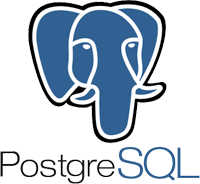
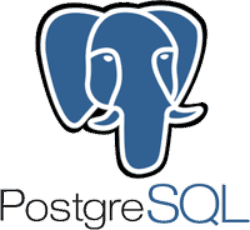
imagen webp y menu mejorado

diff --git a/src/Portafolio.jsx b/src/Portafolio.jsx
@@ -1,25 +1,25 @@
-import image from "../src/images/per.png";
+import image from "../src/images/per.webp";
 import im2 from "../src/images/plo2.jpg";
-import im1 from "../src/images/plo1.png";
-import im3 from "../src/images/plo3.png";
+import im1 from "../src/images/plo1.webp";
+import im3 from "../src/images/plo3.webp";
 import reactimage from "../src/images/react.png";
 import postgres from "../src/images/postgres.png";
 import redux from "../src/images/redux.png";
-import tailwind from "../src/images/tailwind.png";
-import js from "../src/images/javascript.png";
-import html from "../src/images/html.png";
+import tailwind from "../src/images/tailwind.webp";
+import js from "../src/images/javascript.webp";
+import html from "../src/images/html.webp";
 import node from "../src/images/node.png";
 import express from "../src/images/express-js.png";
-import pf1 from "../src/images/sectionProjects/pf2.png";
-import pf2 from "../src/images/sectionProjects/pf3.png";
-import pf3 from "../src/images/sectionProjects/pf5.jpeg";
-import pi1 from "../src/images/sectionProjects/portafolio_pi_1.png";
-import pi2 from "../src/images/sectionProjects/portafolio_pi_2.png";
-import pi3 from "../src/images/sectionProjects/portafolio_pi_3.png";
-import github from "../src/images/Github-logo.png";
-import linkedin from "../src/images/logo-linkedin.png";
+import pf1 from "../src/images/sectionProjects/pf2.webp";
+import pf2 from "../src/images/sectionProjects/pf3.webp";
+import pf3 from "../src/images/sectionProjects/pf5.webp";
+import pi1 from "../src/images/sectionProjects/portafolio_pi_1.webp";
+import pi2 from "../src/images/sectionProjects/portafolio_pi_2.webp";
+import pi3 from "../src/images/sectionProjects/portafolio_pi_3.webp";
+import github from "../src/images/github.png";
+import linkedin from "../src/images/logo-linkedin.webp";
 import emailjs from "emailjs-com";
-import css from "../src/images/css.png";
+import css from "../src/images/css.webp";
 import "./App.css";
 import { HashLink } from "react-router-hash-link";
 import { Route, Router } from "react-router-dom";
@@ -27,15 +27,14 @@ import { Link } from "react-router-dom";
 import { NavLink } from "react-router-dom";
 import swal from "sweetalert";
 import Carousel from "./Carousel";
-import { CarouselData } from "./CarouselData";
 import Modal from "./Modal";
 export default function Portafolio() {
   const estilos = {
-    h1: "font-extrabold text-transparent  bg-clip-text bg-gradient-to-r from-neutral-300 to-neutral-400 text-xl  font-bold text-slate-200 flex h-full flex-col   transition transform  text-center border-b-4 border-sky-500  mx-2 rounded-2xl hover:-translate-y-2 motion-reduce:transition-none motion-reduce:hover:transform-none  cursor-pointer py-2  tracking-widest tracking-wider shadow-lg shadow-blue-700 hover:shadow-sm ",
+    h1: "font-extrabold text-transparent  bg-clip-text bg-gradient-to-r from-neutral-300 to-neutral-400 text-sm  font-bold text-slate-200 flex h-full flex-col   transition transform  text-center border-b-2 sm:border-b-4 border-sky-500  mx-2 rounded-2xl hover:-translate-y-2 motion-reduce:transition-none motion-reduce:hover:transform-none  cursor-pointer py-2  tracking-widest tracking-wider shadow-lg shadow-blue-700 hover:shadow-sm sm:text-lg md:text-xl",
     h1NE: "text-3xl  font-bold text-slate-200 flex h-full flex-col transition transform  text-center border-y-4 border-sky-500  mx-8 rounded-2xl py-4 my-20",
     h1_down:
-      " shadow-2xl shadow-blue-700 text-3xl text-transparent font-extrabold bg-clip-text bg-gradient-to-r from-neutral-300 to-neutral-400 flex h-full flex-col transition transform  text-center border-x-4 border-sky-500  mx-8 rounded-2xl py-4 mt-32 my-20 ",
-    linkGrande: "text-3xl text-center font-extrabold text-slate-300  ",
+      " shadow-2xl shadow-blue-700 text-2xl text-transparent font-extrabold bg-clip-text bg-gradient-to-r from-neutral-300 to-neutral-400 flex h-full flex-col transition transform  text-center border-x-4 border-sky-500  mx-8 rounded-2xl py-4 mt-32 my-20 ",
+    linkGrande: "text-2xl text-center font-extrabold text-slate-300  ",
     info: " text-xl text-slate-400 border-b-4 border-blue-800 rounded-md sm:text-2xl ml-3 text-transparent font-extrabold shadow-xl hover:shadow-blue-700",
 
     h8: "text-4xl  font-extrabold text-slate-200 sm:text-7xl flex-col ",
@@ -68,24 +67,29 @@ export default function Portafolio() {
         }).then(e.target.reset());
       });
   };
-  const esconder=e=>{
+  const esconder = (e) => {
     e.preventDefault();
     let elemento = document.getElementById("panelizquierdo");
-    if(elemento.style.display==="none"){elemento.style.display="flex"}else{
-      elemento.style.display="none"
+    if (elemento.style.display === "none") {
+      elemento.style.display = "flex";
+    } else {
+      elemento.style.display = "none";
     }
-    console.log(elemento.style)
-    console.log(elemento.style.width)
-  }
+    console.log(elemento.style);
+    console.log(elemento.style.width);
+  };
   return (
-    <div className=" flex  p-0 m-0 bg-gradient-to-r  from-zinc-900  justify-center to-black     ">
-      
+    <div className=" flex flex-col md:flex-row content-center   p-0 m-0 bg-gradient-to-r  from-zinc-900  justify-center items-center md:items-start to-black     ">
       <section
         id="panel izquierdo"
-        className=" sticky top-0 flex  h-full w-max"
-      ><h2  style={{display:"initial", zIndex:"500" , position:"absolute",  cursor:"pointer"}} onClick={e=>esconder(e)} className=" opacity-70 text-slate-400 font-bold text-xl mb-1.5 hover:text-blue-800">⬅Panel➡</h2>
-        <section id="panelizquierdo" className="sticky top-0   justify-evenly  flex  w-max  h-screen    flex-col  border-t-8 border-b-8 border-sky-500 rounded-md shadow-2xl shadow-blue-700 ">
-          
+        className=" sticky top-0 flex md:sticky h-full w-max z-50 opacity-100 bg-gradient-to-r  from-zinc-900   to-black "
+      >
+        {/* <h2  style={{display:"initial", zIndex:"500" , position:"absolute",  cursor:"pointer"}} onClick={e=>esconder(e)} className=" opacity-70 text-slate-400 font-bold text-xl mb-1.5 hover:text-blue-800">⬅Panel➡</h2>
+         */}{" "}
+        <section
+          id="panelizquierdo"
+          className="  z-40  justify-evenly flex-wrap flex  w-screen opacity-100 py-4 md:w-auto   md:h-screen md:flex-col    border-b-4  md:border-t-8 md:border-b-8 border-sky-500 rounded-md shadow-2xl shadow-blue-700 "
+        >
           <div>
             <HashLink to="#about">
               <h1 className={estilos.h1}>🕵About</h1>
@@ -106,8 +110,8 @@ export default function Portafolio() {
               <h1 className={estilos.h1}>📞Contact</h1>
             </HashLink>
           </div>
-          <div className="flex flex-col text-center">
-            <div className="flex flex-row content-center justify-center">
+          <div className="flex flex-col absolute right-5 top-20 sm:relative sm:right-0 sm:top-0">
+            <div className="flex flex-row content-center justify-center items-center gap-4 ">
               <a
                 className={estilos.linkGrande}
                 href="https://github.com/maicolortz"
@@ -115,7 +119,7 @@ export default function Portafolio() {
                 rel="noopener"
               >
                 <img
-                  className="w-12 hover:-translate-y-1 motion-reduce:transition-none cursor-pointer "
+                  className="w-8 sm:w-10 hover:-translate-y-1 motion-reduce:transition-none cursor-pointer rounded-full "
                   src={github}
                 ></img>
               </a>
@@ -126,10 +130,11 @@ export default function Portafolio() {
                 rel="noopener"
               >
                 <img
-                  className="w-12 hover:-translate-y-1 motion-reduce:transition-none cursor-pointer"
+                  className="w-8 sm:w-10 hover:-translate-y-1 motion-reduce:transition-none cursor-pointer"
                   src={linkedin}
                 ></img>
               </a>
+           
             </div>
           </div>
         </section>
@@ -274,16 +279,44 @@ export default function Portafolio() {
         </div>
         <section id="skills" className="flex flex-col">
           <h2 className={estilos.h1_down}>skills</h2>
-          <div className="flex  flex-wrap  content-center justify-around ">
-            <img className=" h-20 sm:h-32 rounded-lg" src={reactimage}></img>
-            <img className="h-20 sm:h-32 rounded-lg" src={express}></img>
-            <img className="h-20 sm:h-32 rounded-lg" src={html}></img>
-            <img className="h-20 sm:h-32 rounded-lg" src={redux}></img>
-            <img className="h-20 sm:h-32 rounded-lg" src={css}></img>
-            <img className="h-20 sm:h-32 rounded-lg" src={js}></img>
-            <img className="h-20 sm:h-32 rounded-lg" src={tailwind}></img>
-            <img className="h-20 sm:h-32 rounded-lg" src={postgres}></img>
-            <img className="h-20 sm:h-32 rounded-lg" src={node}></img>
+          <div className="flex  flex-wrap  content-center justify-around gap-8 sm:gap-16">
+            <img
+              className=" h-20 sm:h-32 rounded-lg animate-bounce2"
+              src={reactimage}
+            ></img>
+
+            <img
+              className="h-24 sm:h-28 md:h-32 rounded-lg animate-bounce3  "
+              src={express}
+            ></img>
+            <img
+              className="h-24 sm:h-28 md:h-32 rounded-lg animate-bounce2 "
+              src={html}
+            ></img>
+            <img
+              className="h-24 sm:h-28 md:h-32 rounded-lg animate-bounce3 "
+              src={redux}
+            ></img>
+            <img
+              className="h-24 sm:h-28 md:h-32 rounded-lg animate-bounce2"
+              src={css}
+            ></img>
+            <img
+              className="h-24 sm:h-28 md:h-32 rounded-lg animate-bounce3"
+              src={js}
+            ></img>
+            <img
+              className="h-24 sm:h-28 md:h-32 rounded-lg animate-bounce2"
+              src={tailwind}
+            ></img>
+            <img
+              className="h-24 sm:h-28 md:h-32 rounded-lg animate-bounce2"
+              src={postgres}
+            ></img>
+            <img
+              className="h-24 sm:h-28 md:h-32 rounded-lg animate-bounce3"
+              src={node}
+            ></img>
           </div>
         </section>
         <section id="projects">
@@ -364,23 +397,30 @@ export default function Portafolio() {
             <div>
               <h2 className={estilos.linkGrande}>Pi_Dogs</h2>
               <div className="flex justify-center content-center">
-                <Modal estilos={estilos} titulo_boton="info" titulo_mensaje="Pi-Dogs" mensaje={<p className={estilos.p_2}>
-                Estuve desarrollando una single Page de perros, que incluye
-                caracteristicas como
-                <br />
-                🩸Busqueda de perro
-                <br />
-                🩸Publicar un perro
-                <br />
-                🩸ordenar perros por tamaño,
-                <br />
-                🩸ordenar razas por alfabeto
-                <br />
-                🩸filtrar por temperamento
-                <br />
-                🩸creacion de perro
-                <br />
-              </p>}></Modal>
+                <Modal
+                  estilos={estilos}
+                  titulo_boton="info"
+                  titulo_mensaje="Pi-Dogs"
+                  mensaje={
+                    <p className={estilos.p_2}>
+                      Estuve desarrollando una single Page de perros, que
+                      incluye caracteristicas como
+                      <br />
+                      🩸Busqueda de perro
+                      <br />
+                      🩸Publicar un perro
+                      <br />
+                      🩸ordenar perros por tamaño,
+                      <br />
+                      🩸ordenar razas por alfabeto
+                      <br />
+                      🩸filtrar por temperamento
+                      <br />
+                      🩸creacion de perro
+                      <br />
+                    </p>
+                  }
+                ></Modal>
                 <a
                   className={estilos.linkGrande}
                   href="https://pi-dogs-peach.vercel.app/"
@@ -393,8 +433,6 @@ export default function Portafolio() {
                   </button>{" "}
                 </a>
               </div>
-
-              
             </div>
             <div className="flex content-center justify-center">
               <Carousel
@@ -428,10 +466,10 @@ export default function Portafolio() {
         </section>
         <section id="contact">
           <h2 className={estilos.h1_down}>contact</h2>
-          <div className="flex  py-8  content-center justify-center w-max-96 ">
+          <div className="flex  py-6   items-center  content-center justify-center  flex-col">
             <form
               onSubmit={enviaremail}
-              className="border-double border-4 border-sky-500 p-4 rounded-xl"
+              className="border-double border-4 border-sky-500 p-4 rounded-xl w-max-96"
             >
               <div className="my-2">
                 <input
@@ -475,7 +513,9 @@ export default function Portafolio() {
                 </button>
               </div>
             </form>
+       
           </div>
+          <div></div>
         </section>
       </section>
     </div>

diff --git a/tailwind.config.js b/tailwind.config.js
@@ -8,7 +8,27 @@ module.exports = {
       boxShadow: {
         '3xl': '0 35px 60px -15px rgba(0, 0, 0, 0.3)',
         
-      }
+      },
+    
+        
+      keyframes: {
+        
+        wave: {
+          '0%': { transform: 'rotate(0.0deg)', width:'10px' },
+          '10%': { transform: 'rotate(14deg)' },
+          '20%': { transform: 'rotate(-8deg)' },
+          '30%': { transform: 'rotate(14deg)' },
+          '40%': { transform: 'rotate(-4deg)' },
+          '50%': { transform: 'rotate(10.0deg)', width:'120px'},
+          '60%': { transform: 'rotate(0.0deg)' },
+          '100%': { transform: 'rotate(0.0deg)', width:"auto"},
+        },
+      },
+      animation: {
+        'waving-hand': 'wave 2s linear infinite',
+        "bounce2":"bounce 4s infinite",
+        "bounce3":"bounce 6s infinite"
+      },
     },
   },
   plugins: [],

diff --git a/src/App.css b/src/App.css
@@ -18,6 +18,8 @@ h1:hover{
     transform: rotate(360deg);
     -webkit-transform: rotate(360deg);
     } */
+   
+    
 @keyframes move {
   0% {
     text-shadow:
@@ -80,3 +82,6 @@ h1:hover{
     ;
   }  
 }
+
+
+
